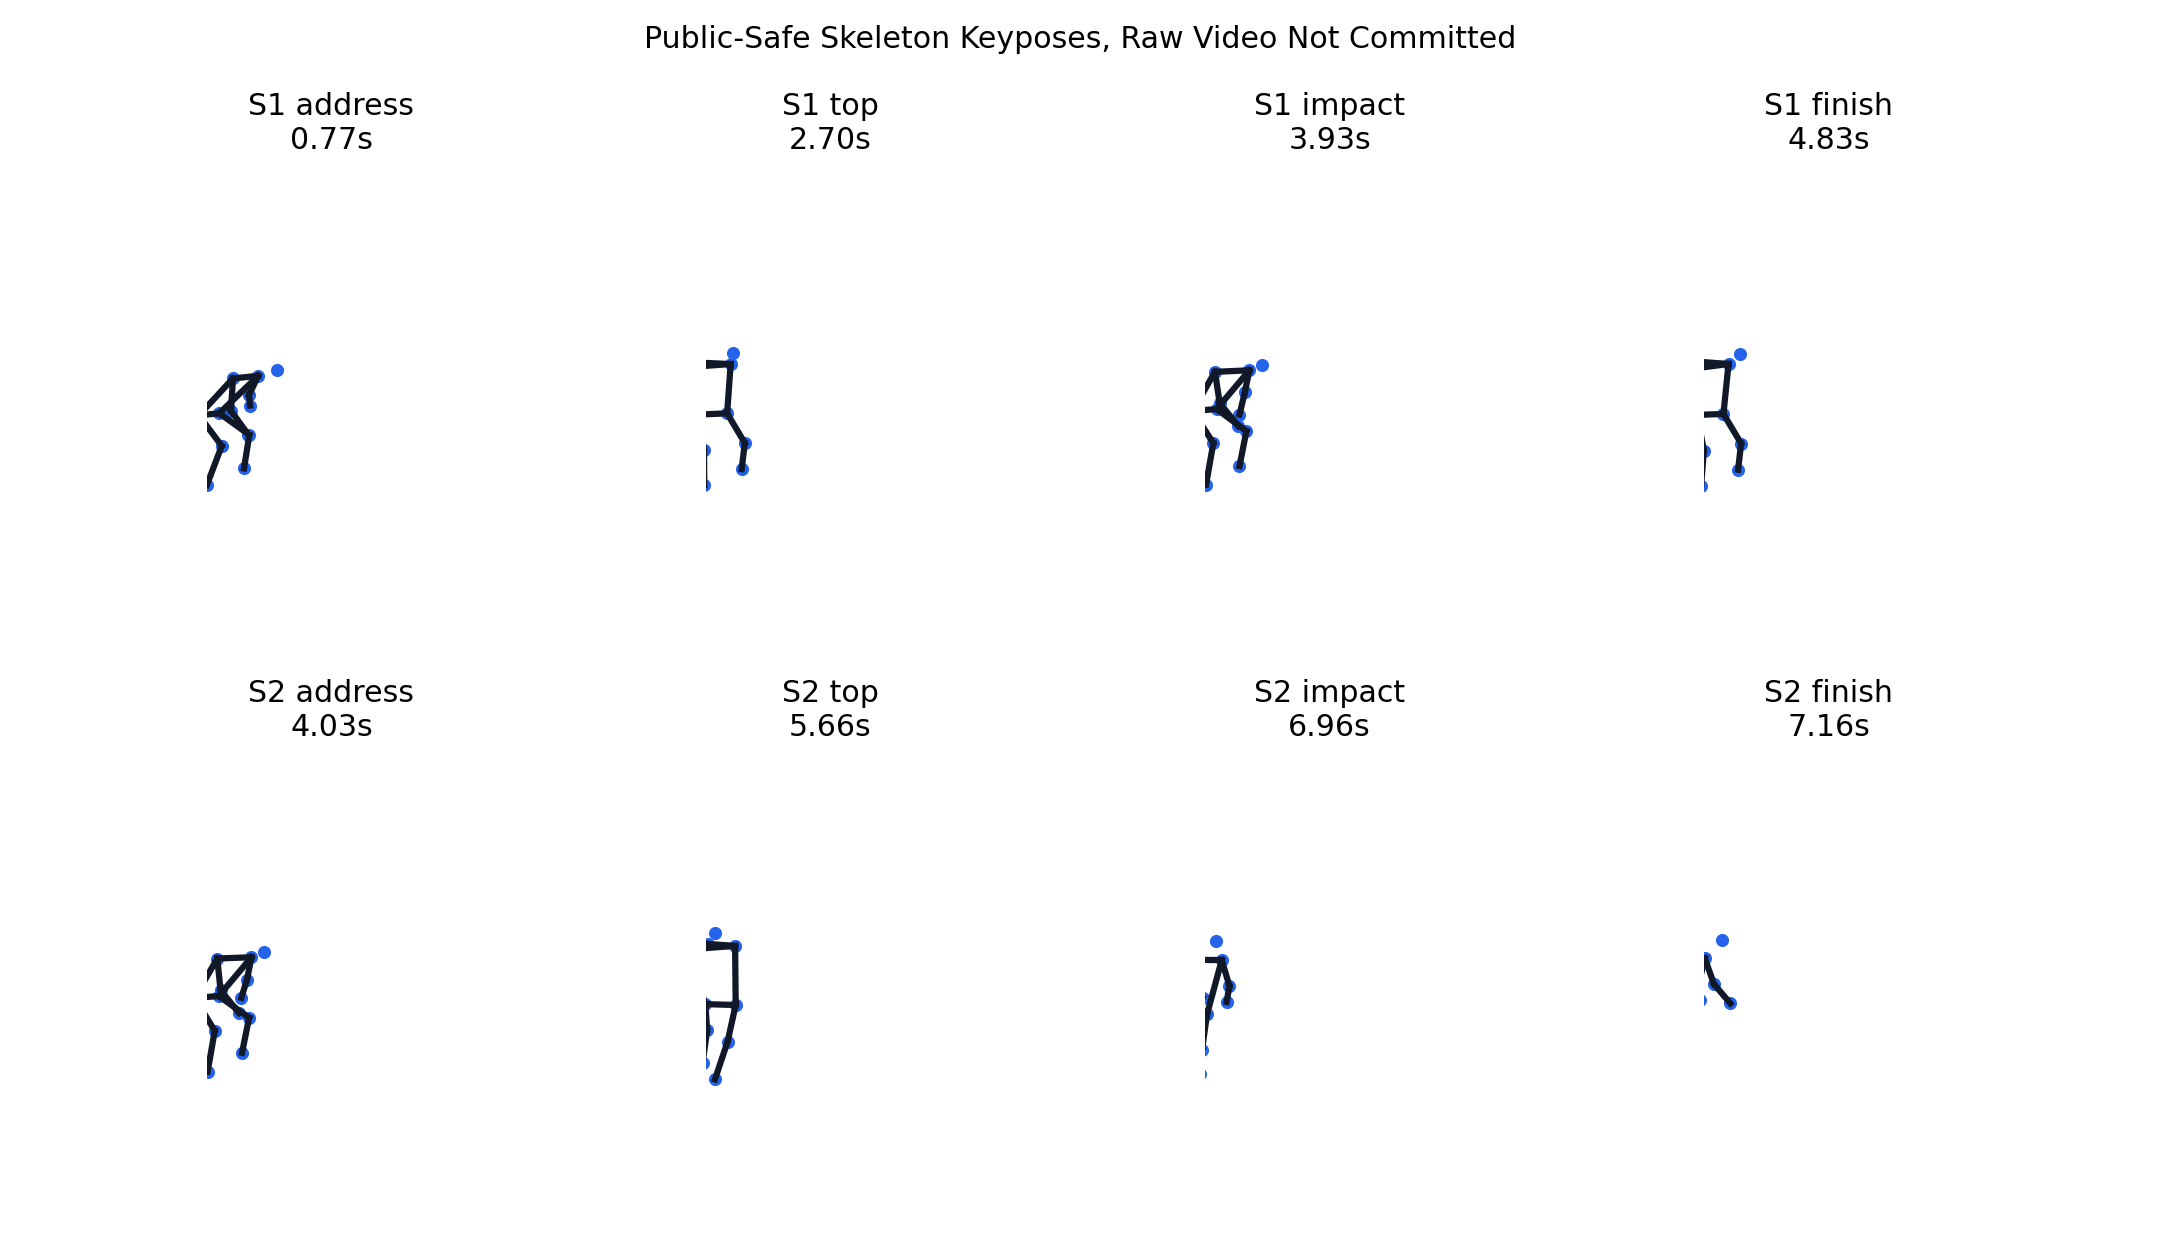
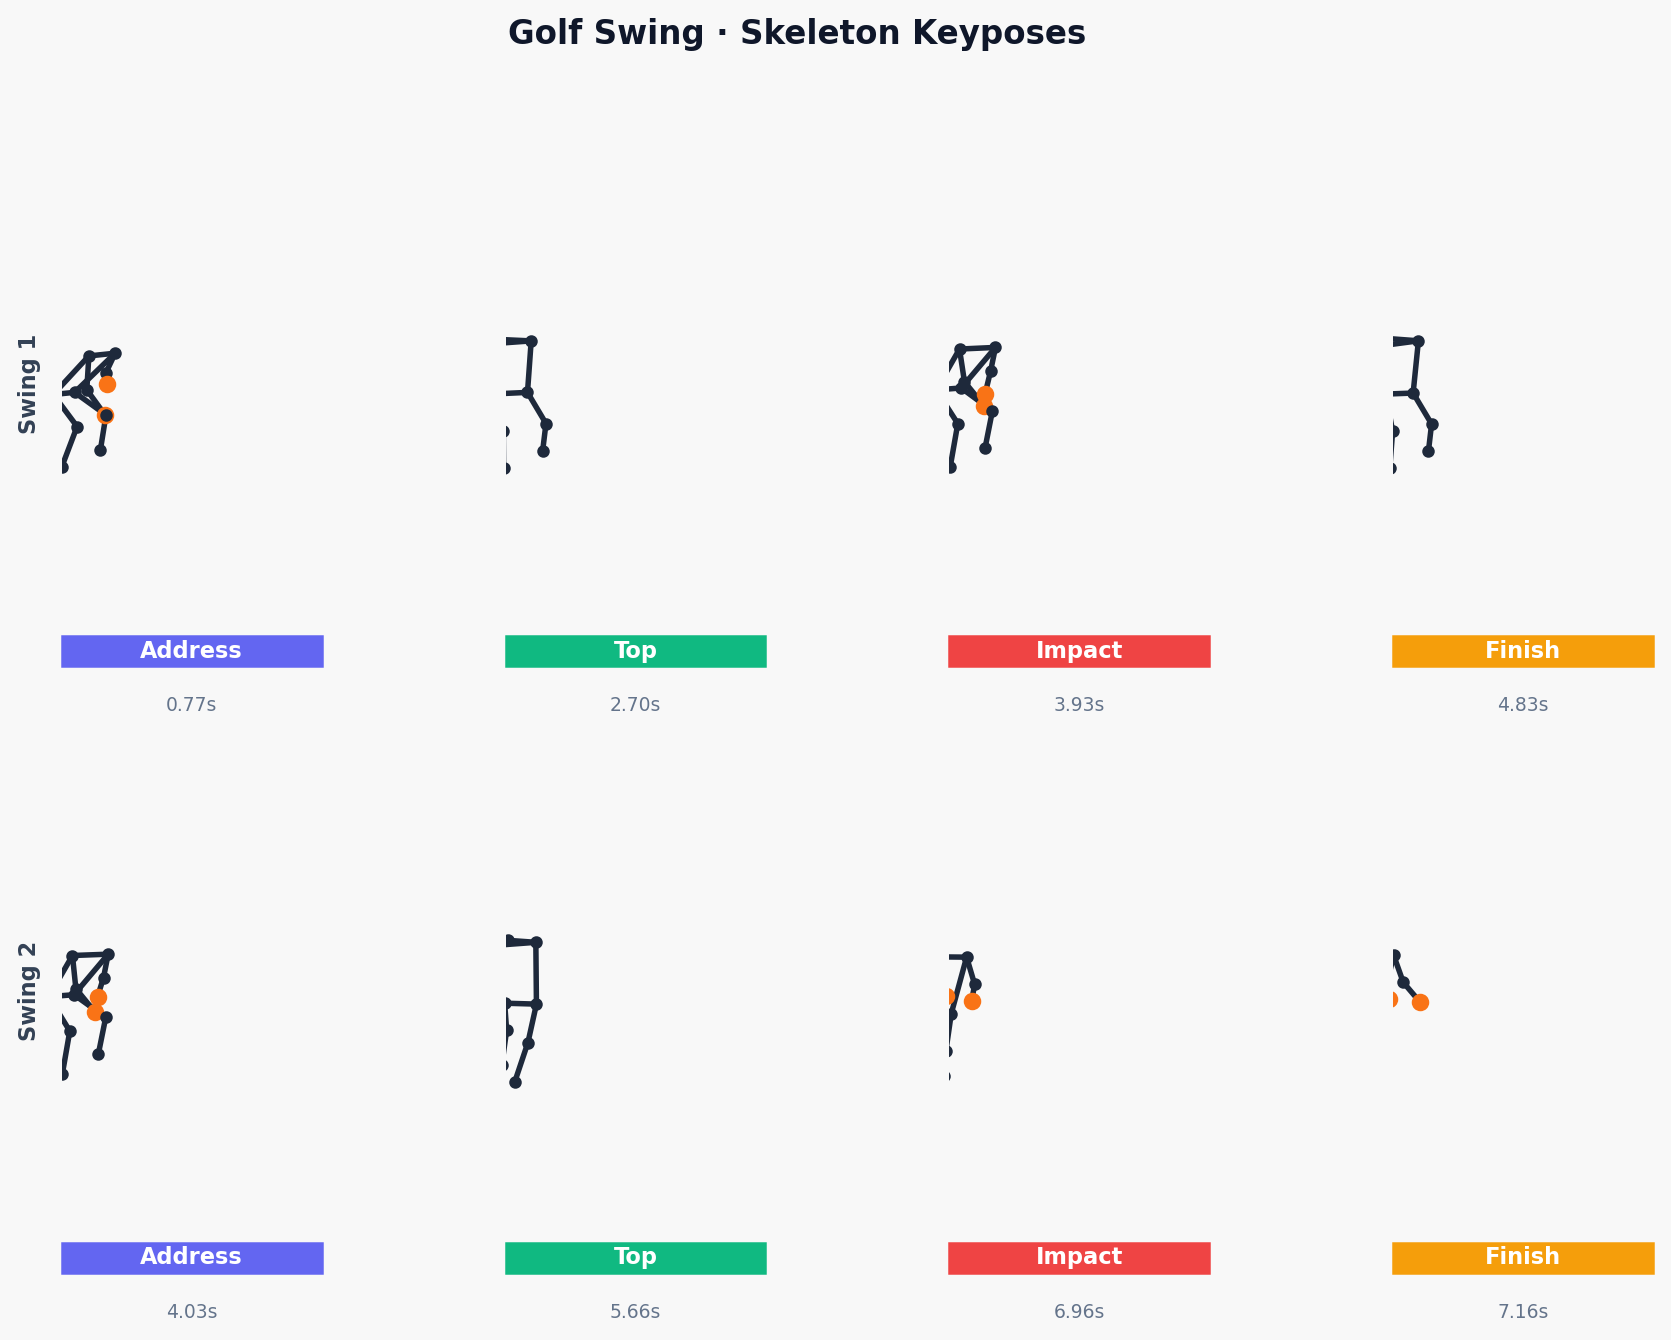
use real sport images in README: golf keyposes + basketball overlay
- Regenerate golf skeleton_keyposes.png: clean title, color-coded phase
  labels (address/top/impact/finish), orange wrist highlights, no more
  'Public-Safe' disclaimer text
- README/README.zh-CN: side-by-side table — golf keyposes (left) and
  basketball overlay video frame (right)

diff --git a/README.md b/README.md
@@ -15,9 +15,20 @@
 
 ---
 
-[![Demo — click to open the live site](docs/assets/yifan-golf-0520/skeleton_keyposes.png)](https://rayford295.github.io/swingform-ai/)
+<table>
+<tr>
+<td width="55%" align="center">
+<img src="docs/assets/yifan-golf-0520/skeleton_keyposes.png" alt="Golf swing skeleton keyposes">
+<br><sub>⛳ <b>Golf</b> · 2 swings auto-detected · Address → Top → Impact → Finish</sub>
+</td>
+<td width="45%" align="center">
+<img src="docs/assets/yifan-basketball-0601/overlay_poster.jpg" alt="Basketball skeleton overlay">
+<br><sub>🏀 <b>Basketball</b> · Skeleton overlay on real video · Shot 1 Release</sub>
+</td>
+</tr>
+</table>
 
-<p align="center"><sub>Golf · 2 swing cycles detected · click to see the full effects video and 3D skeleton viewer</sub></p>
+<p align="center"><sub><a href="https://rayford295.github.io/swingform-ai/">Open the live site</a> for the full effects video and interactive 3D skeleton viewer</sub></p>
 
 ---
 

diff --git a/README.zh-CN.md b/README.zh-CN.md
@@ -15,9 +15,20 @@
 
 ---
 
-[![Demo — 点击打开网站](docs/assets/yifan-golf-0520/skeleton_keyposes.png)](https://rayford295.github.io/swingform-ai/)
+<table>
+<tr>
+<td width="55%" align="center">
+<img src="docs/assets/yifan-golf-0520/skeleton_keyposes.png" alt="高尔夫挥杆骨架关键位">
+<br><sub>⛳ <b>高尔夫</b> · 2 次挥杆自动检测 · 站位 → 顶部 → 击球 → 收杆</sub>
+</td>
+<td width="45%" align="center">
+<img src="docs/assets/yifan-basketball-0601/overlay_poster.jpg" alt="篮球骨架叠加视频">
+<br><sub>🏀 <b>篮球</b> · 真实视频骨架叠加 · 第 1 次出手释放帧</sub>
+</td>
+</tr>
+</table>
 
-<p align="center"><sub>高尔夫 · 自动检测 2 次挥杆 · 点击查看特效视频和 3D 骨架查看器</sub></p>
+<p align="center"><sub><a href="https://rayford295.github.io/swingform-ai/">打开网站</a>查看完整特效视频和可交互 3D 骨架查看器</sub></p>
 
 ---
 
